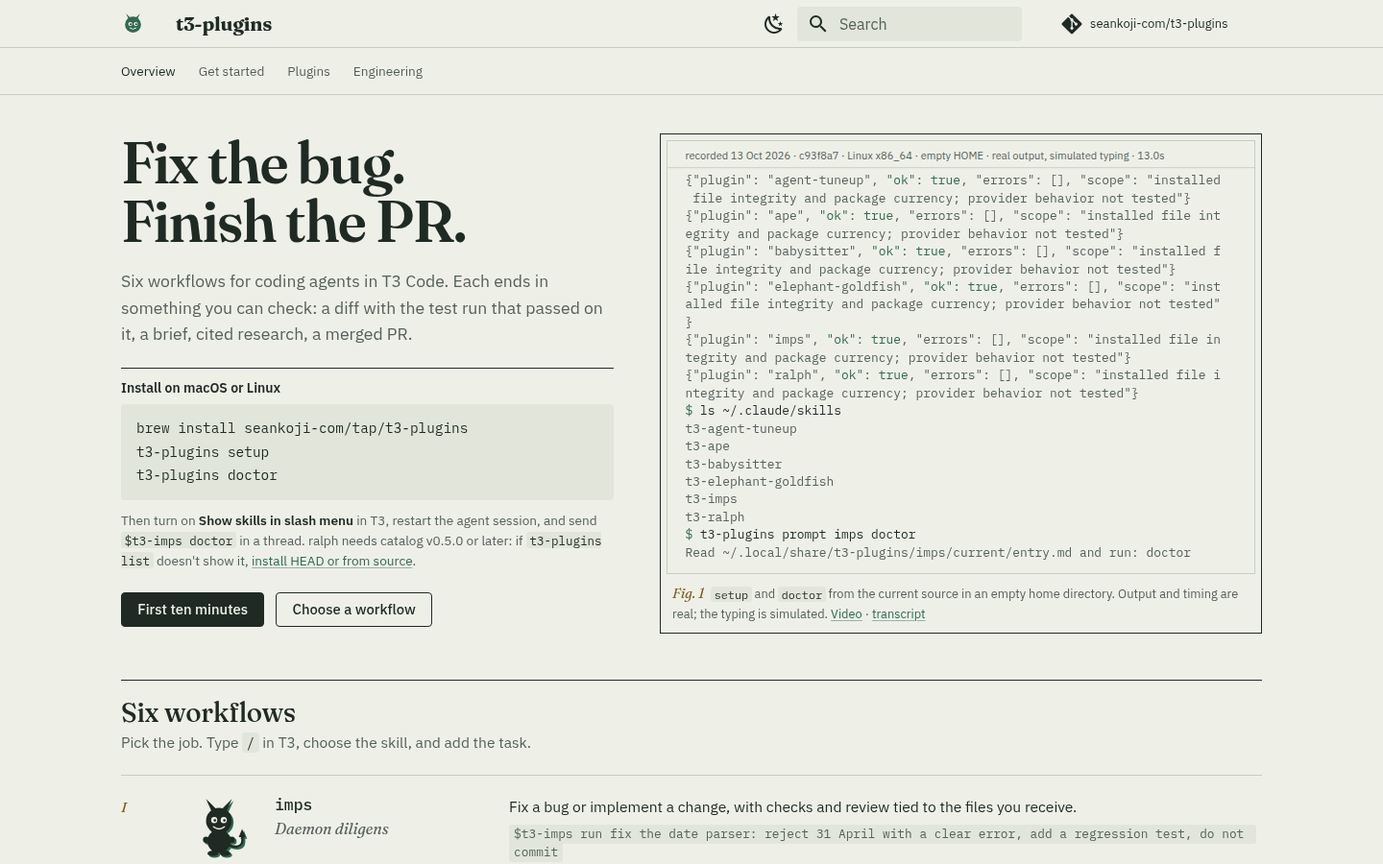
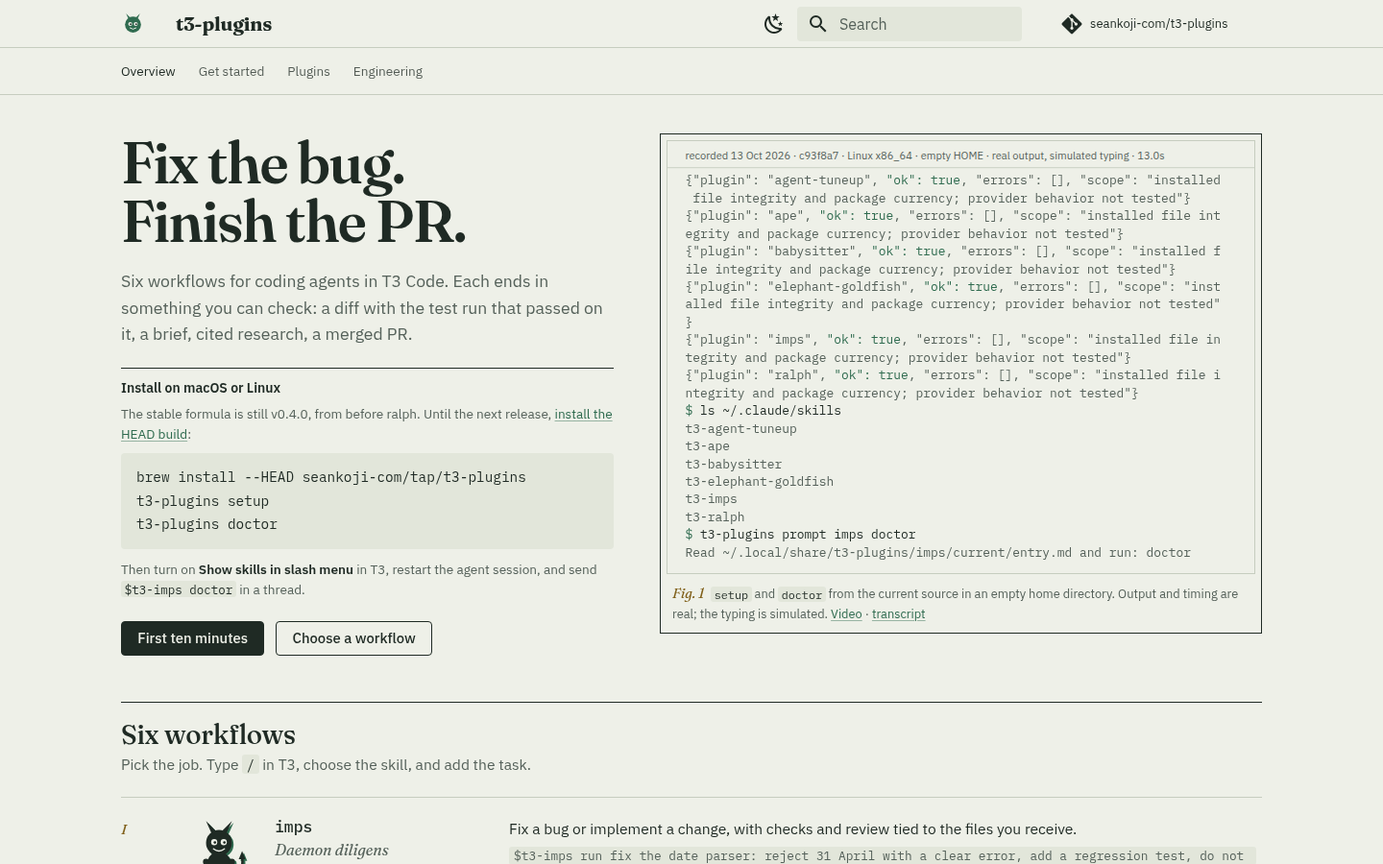
docs: install the HEAD build, match babysitter's review gate
Address the first evaluation of the docs overhaul.

- Install: the tap's stable formula is v0.4.0, older than these docs, so the
  README, homepage and install page now say so before the command and lead
  with `brew install --HEAD`. Upgrades use `brew upgrade --fetch-HEAD`.
  The README puts install ahead of the recording. No speculative v0.5.0.
- babysitter guide: the quick pass uses --no-auto and arms nothing; fixers
  never merge; the land step merges only after pr-reviewer approves the exact
  head; preexisting auto-merge blocks push-authorized fixers. Plain setup
  writes no routing config, and without one the thread asks before fanning out.
- ape guide: `clean WORKSPACE` removes clones; `--all` also removes reports
  and the workspace, both after explicit confirmation.
- DESIGN.md hero and lead sizes match extra.css; the install note is documented.
- Plugin headers separate their facts so search excerpts read
  "Habitat One pull request", not "HabitatOne pull request".
- docs-preview.png recaptured with the new install block.
- Compat-map shard trimmed to the four entries the map test requires for the
  new capture scripts and their tests.

Changed region(s): [[0.0625, 0.4667, 0.4375, 0.7778], [0.0938, 0.8089, 0.375, 1.0], [0.375, 0.9333, 0.9062, 0.9956]]

diff --git a/docs/stylesheets/extra.css b/docs/stylesheets/extra.css
@@ -166,10 +166,11 @@
 .fg-install pre { margin: 0; background: var(--paper-deep); border-radius: 4px; padding: .65rem .8rem; overflow-x: auto; }
 .fg-install pre code { font-family: var(--mono); font-size: .72rem; line-height: 1.7; color: var(--ink); background: none; padding: 0; }
 .fg-install__next { font-size: .68rem; line-height: 1.55; color: var(--ink-soft); margin: .55rem 0 0; max-width: 34rem; }
+.fg-install__note { font-size: .68rem; line-height: 1.55; color: var(--ink-soft); margin: 0 0 .45rem; max-width: 34rem; }
 .fg-install__next b { color: var(--ink); font-weight: 600; }
-.fg-install__next code, .fg-key__intro code, .fg-rec figcaption code { font-family: var(--mono); font-size: .92em; background: var(--paper-deep); color: var(--ink); border-radius: 3px; padding: .05em .3em; }
-.fg-install__next a, .fg-rec figcaption a { color: var(--fern); text-decoration: underline; text-decoration-thickness: 1px; text-underline-offset: .18em; text-decoration-color: color-mix(in srgb, var(--fern) 45%, transparent); }
-.fg-install__next a:hover, .fg-rec figcaption a:hover { color: var(--fern-deep); text-decoration-color: currentColor; }
+.fg-install__note code, .fg-install__next code, .fg-key__intro code, .fg-rec figcaption code { font-family: var(--mono); font-size: .92em; background: var(--paper-deep); color: var(--ink); border-radius: 3px; padding: .05em .3em; }
+.fg-install__note a, .fg-install__next a, .fg-rec figcaption a { color: var(--fern); text-decoration: underline; text-decoration-thickness: 1px; text-underline-offset: .18em; text-decoration-color: color-mix(in srgb, var(--fern) 45%, transparent); }
+.fg-install__note a:hover, .fg-install__next a:hover, .fg-rec figcaption a:hover { color: var(--fern-deep); text-decoration-color: currentColor; }
 
 /* the recorded terminal session, framed like a plate */
 .fg-rec { position: relative; margin: 0; border: 1px solid var(--ink); padding: 6px; background: var(--paper); }

diff --git a/overrides/home.html b/overrides/home.html
@@ -17,10 +17,11 @@
         <p class="fg-lead">{{ words[count] if count < 11 else count }} workflows for coding agents in T3 Code. Each ends in something you can check: a diff with the test run that passed on it, a brief, cited research, a merged PR.</p>
         <div class="fg-install" aria-labelledby="fg-install-title">
           <p id="fg-install-title" class="fg-install__title">Install on macOS or Linux</p>
-          <pre><code>brew install seankoji-com/tap/t3-plugins
+          <p class="fg-install__note">The stable formula is still v0.4.0, from before ralph. Until the next release, <a href="{{ 'getting-started/#homebrew-release-channel' | url }}">install the HEAD build</a>:</p>
+          <pre><code>brew install --HEAD seankoji-com/tap/t3-plugins
 t3-plugins setup
 t3-plugins doctor</code></pre>
-          <p class="fg-install__next">Then turn on <b>Show skills in slash menu</b> in T3, restart the agent session, and send <code>$t3-imps doctor</code> in a thread. ralph needs catalog v0.5.0 or later: if <code>t3-plugins list</code> doesn't show it, <a href="{{ 'getting-started/#homebrew-release-channel' | url }}">install HEAD or from source</a>.</p>
+          <p class="fg-install__next">Then turn on <b>Show skills in slash menu</b> in T3, restart the agent session, and send <code>$t3-imps doctor</code> in a thread.</p>
         </div>
         <p class="fg-actions">
           <a class="fg-primary" href="{{ 'getting-started/' | url }}">First ten minutes</a>

diff --git a/scripts/field_guide.py b/scripts/field_guide.py
@@ -196,12 +196,13 @@ def render_specimen_header(specimen: dict) -> str:
         f'<p class="specimen__plate">Plate {specimen["plate"]} '
         f'<span class="specimen__binomial">{html.escape(specimen["binomial"])}</span></p>'
         f'<p class="specimen__use"><b>Use it when</b> {html.escape(specimen["use_when"])}</p>'
-        f'<p class="specimen__try"><span>In a T3 thread</span><code>{html.escape(specimen["try"])}</code></p>'
+        f'<p class="specimen__try"><span>In a T3 thread</span>\n<code>{html.escape(specimen["try"])}</code></p>'
         '</div>'
-        '<dl class="specimen__facts">'
-        f'<div><dt>Habitat</dt><dd>{html.escape(specimen["habitat"])}</dd></div>'
-        f'<div><dt>Diet</dt><dd>{html.escape(specimen["diet"])}</dd></div>'
-        f'<div><dt>Field marks</dt><dd>{html.escape(specimen["field_marks"])}</dd></div>'
+        # The newlines keep search excerpts from running "Habitat" into its value.
+        '<dl class="specimen__facts">\n'
+        f'<div><dt>Habitat</dt>\n<dd>{html.escape(specimen["habitat"])}</dd></div>\n'
+        f'<div><dt>Diet</dt>\n<dd>{html.escape(specimen["diet"])}</dd></div>\n'
+        f'<div><dt>Field marks</dt>\n<dd>{html.escape(specimen["field_marks"])}</dd></div>\n'
         '</dl></div>\n\n'
     )
 

diff --git a/tests/test_field_guide.py b/tests/test_field_guide.py
@@ -96,7 +96,10 @@ class RepositoryGuideTest(unittest.TestCase):
         self.assertIn('class="demo-rec"', svg)
         template = (ROOT / 'overrides' / 'home.html').read_text()
         self.assertIn('guide.recording | safe', template)
-        self.assertIn('brew install seankoji-com/tap/t3-plugins', template)
+        # The tap's stable formula predates these docs, so the hero installs HEAD and
+        # says why before the command, not after it.
+        self.assertIn('brew install --HEAD seankoji-com/tap/t3-plugins', template)
+        self.assertLess(template.index('fg-install__note'), template.index('brew install --HEAD'))
         for bad in ('<svg><script>x</script></svg>', '<svg><a href="https://e.invalid/">x</a></svg>',
                     '<svg><style>@import "x.css";</style></svg>', '<svg onload="x()"></svg>',
                     '<svg><rect style="fill:url(https://e.invalid/p#x)"/></svg>', '<p>no</p>'):

diff --git a/docs/getting-started.md b/docs/getting-started.md
@@ -11,10 +11,12 @@ the machine where you install. Homebrew brings Python 3.12; from source you need
 
 ## 1. Install with Homebrew
 
-On macOS or Linux:
+On macOS or Linux. The tap's stable formula is still v0.4.0, which predates ralph and
+several commands on this page, so install the HEAD build until the next release
+([why](#homebrew-release-channel)):
 
 ```sh
-brew install seankoji-com/tap/t3-plugins
+brew install --HEAD seankoji-com/tap/t3-plugins
 t3-plugins setup
 t3-plugins doctor
 ```
@@ -85,7 +87,7 @@ Pick the row that matches something you need today. Each starts from a T3 thread
 | [imps](plugins/imps.md) | `$t3-imps run fix the date parser: reject 31 April with a clear error, add a regression test, do not commit` | The change, a run ID, and a report mapping each requirement to the check that covered it at this revision. Anything unverified is listed as blocked. |
 | [elephant-goldfish](plugins/elephant-goldfish.md) | `$t3-elephant-goldfish thinking retry-policy` | An interview, then `thinking/retry-policy/discovery.md`, `spec.md` with numbered acceptance criteria, and `handoff.md` for a fresh thread. |
 | [ape](plugins/ape.md) | `$t3-ape study https://github.com/python/cpython how are parser error cases tested?` | A report pinned to the commit it read, with Adopt, Adapt and Reject sections, line citations, and one small experiment for your repository. |
-| [babysitter](plugins/babysitter.md) | `$t3-babysitter pr https://github.com/OWNER/REPO/pull/12 inspect reviews and CI only` | Read-only: the blocking reviews and checks at the current head. Drop "inspect only" to let it fix, push and merge. |
+| [babysitter](plugins/babysitter.md) | `$t3-babysitter pr https://github.com/OWNER/REPO/pull/12 inspect reviews and CI only` | Read-only: the blocking reviews and checks at the current head. Drop "inspect only" to let it fix and push, get the head reviewed by a second model, then merge. |
 | [agent-tuneup](plugins/agent-tuneup.md) | `$t3-agent-tuneup audit --provider claude --settings .claude/settings.json` | Finding codes and locations in that file. Setting values never appear. |
 | [ralph](plugins/ralph.md) | `$t3-ralph fix the parser and add regression coverage` | It asks you to choose an implementer and a grader from different model lineages, retries until the grader has no feedback, then opens a PR. |
 
@@ -104,24 +106,26 @@ $ python3 "$(dirname "$(t3-plugins path agent-tuneup)")/scripts/audit.py" --prov
 ## Homebrew release channel
 
 The tap installs a `t3-plugins` command and an `imps` command, with Python 3.12 as a
-dependency. The formula installs on Linux through Homebrew on Linux; the tap's CI
-installs and tests it on macOS.
+dependency. Homebrew on Linux installs and runs the stable formula (checked on x86_64);
+the tap's CI installs and tests it on macOS.
 
-These docs describe catalog v0.5.0 and later. Run `t3-plugins list`: if `ralph` is
-missing, your formula is older. v0.4.0 already has `setup`, `doctor` and `prompt`, but
-not ralph, `agents`, `resolve` or `adopt`, and it still ships two retired plugins. Until
-the tap carries v0.5.0, install the development version, which builds from the
-default branch:
+The stable formula is v0.4.0. It has `setup`, `doctor` and `prompt`, but not ralph,
+`agents`, `resolve` or `adopt`, and it still ships two retired plugins. These docs
+describe the current `master`, which `--HEAD` builds:
 
 ```sh
-brew uninstall t3-plugins                        # only if a release is installed
+brew uninstall t3-plugins                        # only if v0.4.0 is installed
 brew install --HEAD seankoji-com/tap/t3-plugins
 t3-plugins setup
 ```
 
-Already installed? `brew upgrade seankoji-com/tap/t3-plugins`, then `t3-plugins setup`
-again. Homebrew's own formula test runs in a temporary home, so it never populates
-your skills; run `setup` yourself.
+Plain `brew upgrade` checks a HEAD install for new commits only when a new stable
+version appears. To update it now, run `brew upgrade --fetch-HEAD t3-plugins`, then
+`t3-plugins setup` again. After the next
+release reaches the tap, you can switch back to stable with `brew uninstall t3-plugins`
+and `brew install seankoji-com/tap/t3-plugins`; `t3-plugins list` shows `ralph` on
+either build that has it. Homebrew's own formula test runs in a temporary home, so it
+never populates your skills; run `setup` yourself.
 
 ## From source
 
@@ -168,8 +172,9 @@ python3 bin/t3-plugins setup
 python3 bin/t3-plugins doctor
 ```
 
-Run these in your source checkout. With Homebrew, run `brew upgrade t3-plugins`, then
-`t3-plugins setup` and `t3-plugins doctor`. Reinstalling identical files changes nothing. A changed package gets a new snapshot. Local edits
+Run these in your source checkout. With Homebrew, run
+`brew upgrade --fetch-HEAD t3-plugins` for a HEAD install (or `brew upgrade t3-plugins`
+for a stable one), then `t3-plugins setup` and `t3-plugins doctor`. Reinstalling identical files changes nothing. A changed package gets a new snapshot. Local edits
 to that same snapshot cause refusal; `--force` is an explicit overwrite. Older
 snapshots remain available, including any edits you made there.
 

diff --git a/docs/plugins/babysitter.md b/docs/plugins/babysitter.md
@@ -25,32 +25,46 @@ machine or provider.
 
 ## What you get
 
-A run has three steps:
+A run has four steps:
 
-1. **Quick pass.** The thread merges every targeted PR that GitHub reports ready at
-   its current head and tries to arm auto-merge on the rest, including PRs with open
-   threads or conflicts. Where GitHub refuses, the thread merges the PR itself once it
-   is ready.
+1. **Quick pass.** Before any child starts, the thread merges each targeted PR whose
+   current head is already clean: green checks, resolved threads, no conflicts. It
+   arms nothing. An armed auto-merge would land a later fixer push before anyone
+   reviewed it. If you asked for review before landing, it skips this pass.
 2. **Fixers.** Each PR with work left (conflicts, failing checks, review comments)
-   gets its own low-cost T3 child in a separate worktree. The child fixes the
-   branch, replies to and resolves the threads it handled, and pushes. The model
-   comes from the `workhorse` role in your [routing config](../getting-started.md#model-routing),
-   cheapest tier first. A child that gets stuck hands off to the next candidate.
-   `setup` makes the session model the only workhorse, so add cheaper models
-   to that role before a large run.
-3. **Watch.** The thread watches every open PR. When T3 wakes it for a new failure,
-   comment or conflict, it sends the next fixer round, until each PR merges or needs
-   a person.
+   gets its own T3 child in a separate worktree. The child fixes the branch, replies to
+   and resolves the threads it handled, and pushes. It never merges. The model comes
+   from the `workhorse` role in your [routing config](../getting-started.md#model-routing),
+   cheapest tier first; a child that gets stuck hands off to the next candidate.
+3. **Review, then land.** After the last push, `babysitter/pr-reviewer` reviews the
+   combined change at that exact head, on a different model lineage from the fixer.
+   Only an approval at that head lets the thread merge, and the merge call names the
+   head, so a later push can't slip through. Findings go back to the next fixer round.
+4. **Watch.** The thread watches every open PR. When T3 wakes it for a new failure,
+   comment or conflict, it starts the next round, until each PR merges or needs a
+   person.
 
-The thread keeps one table of the targeted PRs and posts it again whenever one merges.
-Its shape, with made-up PRs:
+Two things stop it from fanning out:
+
+- **No routing config.** Plain `t3-plugins setup` writes none. Without one, the thread
+  asks you through the question picker before it starts any fixer. To create one, have
+  the agent save T3's capabilities response to a file and run
+  `t3-plugins setup --capabilities caps.json`. The starting config makes the session
+  model the only workhorse, so add cheaper models to that role before a large run.
+  An existing config is never replaced.
+- **Auto-merge someone else armed.** A PR that already has auto-merge queued gets no
+  fixer that pushes, because GitHub would land the push before review. The thread
+  asks you to disable it first.
+
+The thread keeps one table of the targeted PRs and posts it again whenever one merges
+or a blocker changes. Its shape, with made-up PRs:
 
 | PR | Description | Not merged because |
 |---|---|---|
-| [owner/repo#12](https://github.com/owner/repo/pull/12) | Fix login redirect | failing check `lint`; auto-merge armed; fixer round 1 |
+| [owner/repo#12](https://github.com/owner/repo/pull/12) | Fix login redirect | failing check `lint`; awaiting review gate; fixer round 1 |
 | [owner/repo#9](https://github.com/owner/repo/pull/9) | Bump parser | merged |
 
-A green local test, armed auto-merge and an actual merge are three different things.
+A green local test, an approved review and an actual merge are three different things.
 The table reports only merges it has seen.
 
 ## Operations
@@ -76,12 +90,13 @@ actions or more repairs than the plan allows are asked through the question pick
 
 ## Authorize the finish line
 
-Invoking `pr`, `repo` or `org` authorizes babysitting through merge within that scope.
-The read-only example in [Try it](#try-it) narrows that to inspection. The quick pass
-tries to arm auto-merge even while review threads are open, so on a repository
-without a conversation-resolution rule a PR can land as soon as its checks pass. Use
-`repo` or `org` only when you mean that wider scope. Protected-branch rules still
-apply, and unknown or unsafe changes stay blocked.
+Invoking `pr`, `repo` or `org` authorizes babysitting through merge within that scope:
+fixing and pushing to the targeted PR branches, replying on them, and merging them once
+the review gate passes. The read-only example in [Try it](#try-it) narrows that to
+inspection. A clean PR can still merge in the quick pass without a fixer or reviewer,
+so use `repo` or `org` only when you mean every eligible PR there. Drafts, forks and
+other authors' PRs are left alone unless you name them. Protected-branch rules still
+apply; babysitter never uses admin bypass, dismisses reviews or force-pushes.
 
 ## Limits
 

diff --git a/DESIGN.md b/DESIGN.md
@@ -48,11 +48,11 @@ Scale, in Material's rem where `1rem = 20px`:
 
 | Role | Size | Weight | Tracking | Line height |
 |---|---:|---:|---:|---:|
-| Hero headline | `clamp(2.2rem, 4.6vw, 3.3rem)`; `clamp(1.9rem, 10.5vw, 2.3rem)` below 45em | 600 | `-0.025em` | 1.02 |
+| Hero headline | `clamp(2.2rem, 4.2vw, 3rem)`; `clamp(1.9rem, 10.5vw, 2.3rem)` below 45em | 600 | `-0.025em` | 1.02 |
 | h1 | `2.1rem` | 600 | `-0.02em` | 1.1 |
 | h2 | `1.4rem`, hairline rule above | 500 | `-0.01em` | 1.2 |
 | h3 | `0.95rem` Plex Sans | 600 | `-0.005em` | default |
-| Lead | `0.92rem` | 400 | 0 | 1.55 |
+| Lead | `0.88rem` | 400 | 0 | 1.55 |
 | Body | `0.8rem` | 400 | 0 | 1.65 |
 | Code | `0.78em` inline, `0.74em` in blocks | 400 | 0 | 1.7 |
 | Plate number, binomial | Fraunces italic `0.72rem` to `1rem` | 500 | 0 | default |
@@ -100,7 +100,7 @@ never used for text smaller than 1rem; use `--ochre-text`.
 - Sightings table: full width, hairline rows, ink rule under the header, row headings top-aligned with their cells, model names wrapping only at hyphens, caption below in ink-soft; horizontal scroll inside its own container below 45em with a `40rem` minimum.
 - Tables elsewhere: no zebra, no box shadow, ink rule under headers, hairline rows. Inline commands may wrap at spaces so a command column does not squeeze the explanation into single-word lines.
 - Admonitions: a 2px fern left rule, no background.
-- Spacing is in Material rem; hero `2rem` top and bottom on desktop, `1.6rem` on mobile; key rows `1rem` vertical.
+- Spacing is in Material rem; hero `2rem` top and bottom on desktop, `1.6rem` below 60em, where the hero stacks into one column; key rows `1rem` vertical.
 
 Verify at 390px, 768px, 1280px, and 200 percent zoom. No page-level horizontal
 overflow at 390px; wide code blocks scroll inside their own containers.
@@ -110,7 +110,7 @@ overflow at 390px; wide code blocks scroll inside their own containers.
 - **Buttons.** 1px ink border, 4px radius, Plex Sans 500 at `0.74rem`. Primary is ink fill with paper text, hovering to fern-deep with paper text (never a fixed white, which fails on dark mode's pale fern). Focus is a 2px `--ochre-text` outline. Secondary is transparent, hovering to paper-deep. One primary per section.
 - **Specimen marks.** 96 by 96 viewBox, `role="img"` with an `aria-label`, no scripts, no external references. Tests enforce this.
 - **Sightings marks.** Filled and empty circles followed by `passed/repeats`, with an `aria-label` carrying the same numbers. States: clean (fern), mixed (ochre-text), failed (madder), not run (ink-soft italic).
-- **Install block.** In the hero: a `0.7rem` semibold title under a 1.5px ink rule, the commands in a paper-deep `pre` with a 4px radius, then one ink-soft line naming the first message to send in T3. Inline code in that line uses paper-deep with ink text. One per page.
+- **Install block.** In the hero: a `0.7rem` semibold title under a 1.5px ink rule, an optional ink-soft `0.68rem` note for anything the reader must know before running the commands (today, the release channel), the commands in a paper-deep `pre` with a 4px radius, then one ink-soft line naming the first message to send in T3. Inline code in that line uses paper-deep with ink text. One per page.
 - **Recording.** `docs/assets/demo.svg` is rendered by `scripts/render_demo.py` from a real transcript that `scripts/capture_terminal.py` records in an empty home directory (`docs/assets/recordings/`). It is a 72-column, 22-row terminal on paper: commands in ink after a fern `$`, output in ink-soft, and the literal `"ok": true` in fern. Long lines wrap as a terminal would; the view scrolls to keep the newest rows. Output appears at its recorded offset; only the typing is simulated, and the caption band says so along with the date, commit, platform and length. Styles and animation names are scoped to `.demo-rec`; `prefers-reduced-motion` shows the final frame. On the homepage it sits in a plate frame (`.fg-rec`: ink border, hairline inner frame) with a `Fig. 1` caption in ochre-text italic and links to the video and transcript; below 45em it keeps a `34rem` minimum width and scrolls sideways. `--video` renders the same frames to MP4 and WebM with a poster PNG, used on the install page. Never hand-edit a transcript or the rendered assets; recapture instead.
 - **Diagrams.** Inline SVG through the hook's `<!-- inline-svg: -->` marker so page fonts and tokens apply. 1.3px ink strokes, no fills, `Fig.` label in ochre-text italic, text in Plex Sans at 15 to 17px, a `<title>` and `<desc>`. The hook wraps each one in a `.diagram-frame`; below 45em the diagram keeps a `40rem` minimum and scrolls sideways, like the tables, rather than shrinking its labels.
 

diff --git a/README.md b/README.md
@@ -9,23 +9,23 @@ Each one ends in something you can check.**
 
 Ask an agent to "fix the bug" and you usually get a confident summary. With imps you
 get a run ID and a report showing which checks passed on the exact files you were
-handed. Edit a file afterwards and the report says the evidence is stale. The other
-five leave similar records for briefs, research, pull requests, provider settings and
-implement-then-grade loops. Each is a Markdown entry plus small standard-library Python
-helpers, so any T3 provider with file and shell access can run it.
-
-<p align="center">
-  <img src="docs/assets/demo.svg" alt="Terminal recording: t3-plugins list, setup, doctor, the installed skills, and the prompt for T3. Real output in an empty home directory." width="760">
-</p>
-<p align="center"><sub>Real output from an empty home directory, recorded 13 Oct 2026 (<a href="docs/assets/quickstart.mp4">MP4</a>, <a href="docs/assets/recordings/quickstart.txt">transcript</a>). Only the typing is simulated.</sub></p>
+handed; edit a file afterwards and the report says the evidence is stale. The other
+five workflows leave similar records for briefs, research, pull requests, provider
+settings and implement-then-grade loops.
 
 ## Install (macOS or Linux)
 
+The tap's stable formula is still v0.4.0, which predates ralph and several commands
+in these docs. Until the next release, install the HEAD build from `master`:
+
 ```sh
-brew install seankoji-com/tap/t3-plugins
+brew install --HEAD seankoji-com/tap/t3-plugins
 t3-plugins setup      # installs the workflows and their slash-menu skills
 t3-plugins doctor     # checks the installed files; expect "ok": true per plugin
 ```
+
+Update a HEAD install with `brew upgrade --fetch-HEAD t3-plugins`, then run
+`t3-plugins setup` again.
 
 In T3, open **Settings > General**, turn on **Show skills in slash menu**, and restart
 the agent session. Then send this in a thread attached to your repository:
@@ -38,10 +38,14 @@ Type `/` and pick **t3-imps** to insert the `$t3-imps` mention. The agent checks
 Python, Git, its state directory and T3's live provider list, then reports what it
 can run. It changes no files.
 
+<p align="center">
+  <img src="docs/assets/demo.svg" alt="Terminal recording: t3-plugins list, setup, doctor, the installed skills, and the prompt for T3. Real output in an empty home directory." width="760">
+</p>
+<p align="center"><sub>Real output from an empty home directory, recorded 13 Oct 2026 (<a href="docs/assets/quickstart.mp4">MP4</a>, <a href="docs/assets/recordings/quickstart.txt">transcript</a>). Only the typing is simulated.</sub></p>
+
 Homebrew on Linux installs and runs the formula (checked on x86_64), and the tap's CI
-installs and tests it on macOS. ralph and the commands in these docs need catalog
-v0.5.0 or later. If `t3-plugins list` doesn't show `ralph`, install
-[the HEAD build](docs/getting-started.md#homebrew-release-channel) or from source:
+installs and tests it on macOS. Without Homebrew, install from source with Python
+3.10+:
 
 ```sh
 git clone https://github.com/seankoji-com/t3-plugins.git && cd t3-plugins
@@ -55,7 +59,7 @@ python3 bin/t3-plugins setup && python3 bin/t3-plugins doctor
 | Fix a bug you can describe | `$t3-imps run fix the date parser: reject 31 April` | The diff, a run ID, and checks and review tied to that revision |
 | Turn a vague idea into a task | `$t3-elephant-goldfish thinking retry-policy` | `discovery.md`, `spec.md` with acceptance criteria, and `handoff.md` |
 | See how another repo solved it | `$t3-ape study https://github.com/python/cpython how are parser errors tested?` | A report pinned to a commit, with line citations and one small experiment |
-| Get a PR through review and CI | `$t3-babysitter pr https://github.com/OWNER/REPO/pull/12` | Fixes pushed to the PR branch, a merge once GitHub allows it, and a table of what still blocks it |
+| Get a PR through review and CI | `$t3-babysitter pr https://github.com/OWNER/REPO/pull/12` | Fixes pushed to the PR branch, an independent review at the final head, then a merge, plus a table of what still blocks each PR |
 | Check provider permissions and MCPs | `$t3-agent-tuneup audit --provider claude --settings .claude/settings.json` | Finding codes and locations, never the setting values |
 | Have one model build and another grade | `$t3-ralph fix the parser and add regression coverage` | Fresh attempts until the grader has no feedback (five by default), then a PR |
 

diff --git a/docs/troubleshooting.md b/docs/troubleshooting.md
@@ -52,12 +52,13 @@ Do not change the state version or try to convert it by editing JSON.
 
 ## Homebrew has an older catalog
 
-These guides describe catalog v0.5.0 and later. Check with `t3-plugins list`: no
-`ralph` means an older formula. Run `brew update`, `brew upgrade t3-plugins`, then
-`t3-plugins setup`. If the tap still has an older release, install
-[HEAD or from source](getting-started.md#homebrew-release-channel). A GitHub release
-and its tap formula update are separate steps, so a new release can take a while to
-reach `brew`.
+These guides describe the current `master`. Check with `t3-plugins list`: no `ralph`
+means you have the stable v0.4.0 formula. Reinstall the
+[HEAD build](getting-started.md#homebrew-release-channel), or install from source.
+To pick up new commits on a HEAD install, run `brew upgrade --fetch-HEAD t3-plugins`;
+plain `brew upgrade` doesn't check for them. Run `t3-plugins setup` after either. A GitHub release and its
+tap formula update are separate steps, so a new release can take a while to reach
+`brew`.
 
 ## Setup stopped partway through
 

diff --git a/docs/plugins/ape.md b/docs/plugins/ape.md
@@ -26,8 +26,17 @@ or abandoning it. An empty Adopt section is a valid answer. The agent returns th
 source revision and the report path. A proposed experiment is a suggestion, not a
 measured improvement.
 
-Research happens in a workspace of cloned repositories outside your project.
-`$t3-ape clean` removes it.
+Research happens in a workspace of cloned repositories outside your project. To
+reclaim the disk space, name that workspace:
+
+```text
+$t3-ape clean WORKSPACE
+```
+
+That deletes the clones and keeps the reports. `$t3-ape clean WORKSPACE --all` also
+deletes the reports and the workspace itself. Either way the agent first lists what
+it would remove and asks you to confirm; a `study` or `forage` request never counts as
+permission to delete.
 
 ## Operations
 

diff --git a/docs/plugins/ralph.md b/docs/plugins/ralph.md
@@ -23,10 +23,10 @@ $t3-ralph resume /path/to/ralph-state.json
 $t3-ralph cancel /path/to/ralph-state.json
 ```
 
-Choosing `t3-ralph` from the `/` menu inserts the `$t3-ralph` mention. ralph needs
-catalog v0.5.0 or later: if `t3-plugins list` doesn't include it, install
-[HEAD or from source](../getting-started.md#homebrew-release-channel), then run
-`t3-plugins setup ralph` and restart the agent session.
+Choosing `t3-ralph` from the `/` menu inserts the `$t3-ralph` mention. ralph is not in
+the tap's stable v0.4.0 formula. If `t3-plugins list` doesn't include it, install
+[the HEAD build or from source](../getting-started.md#homebrew-release-channel), then
+run `t3-plugins setup ralph` and restart the agent session.
 
 ## What you get
 
